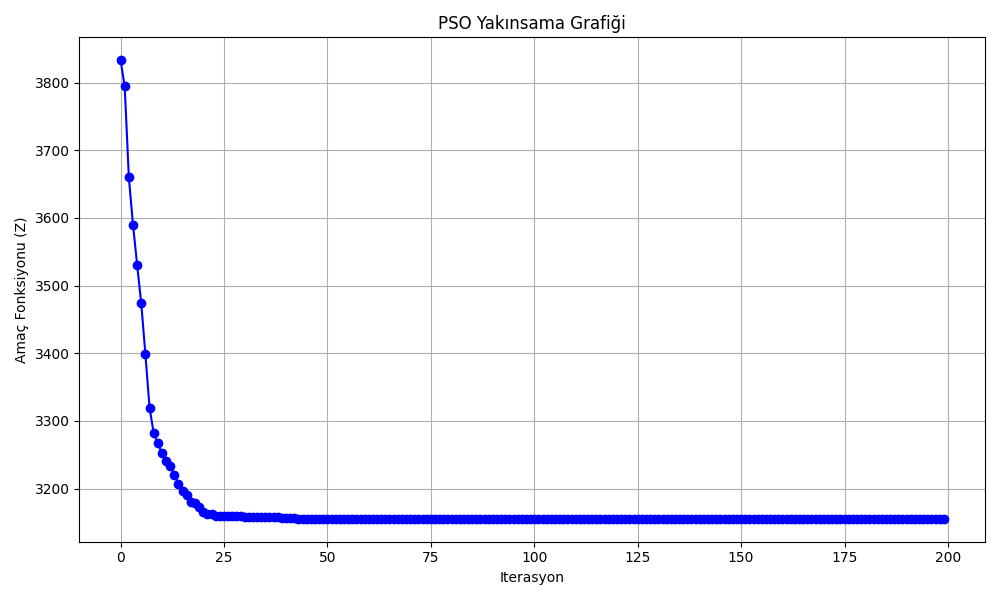
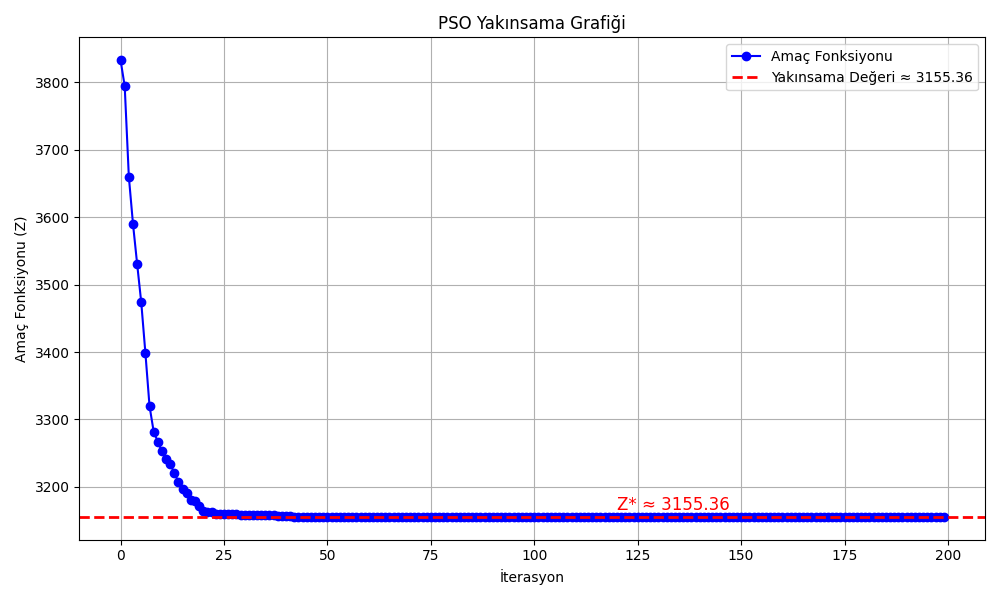
pso

diff --git a/deneme_pso.py b/deneme_pso.py
@@ -1,12 +1,13 @@
 import pandas as pd
 import numpy as np
 import matplotlib.pyplot as plt
+import os
 
-# Parametreler
+# ======================= PARAMETRELER ======================= #
 W1 = 0.5
 W2 = 0.5
-TOTAL_LIMIT = 3_000_000
-PER_TOWN_LIMIT = 1_000_000
+TOTAL_LIMIT = 3_000_000       # Toplam yeni yeşil alan sınırı (m²)
+PER_TOWN_LIMIT = 1_000_000    # İlçe başı maksimum yeni yeşil alan (m²)
 
 NUM_PARTICLES = 100
 MAX_ITER = 200
@@ -17,19 +18,20 @@ SEED = 42
 
 np.random.seed(SEED)
 
-### Yardımcı Fonksiyon ###
+# ======================= YARDIMCI FONKSİYONLAR ======================= #
 def repair_vector(x, bounds):
+    """Sınır dışına çıkan veya toplam limiti aşan çözüm vektörünü onarır."""
     x = np.clip(x, [b[0] for b in bounds], [b[1] for b in bounds])
     total = np.sum(x)
     if total > TOTAL_LIMIT:
-        x *= TOTAL_LIMIT / total
+        x *= TOTAL_LIMIT / total  # Orantılı olarak küçült
     return x
 
-### Objective Function ###
 def objective(x, S, P, GA):
+    """Amaç fonksiyonu: daha düşük değer daha iyidir."""
     return np.sum((S * P) / (GA + x + 1))
 
-### PSO Sınıfı ###
+# ======================= PSO SINIFI ======================= #
 class Particle:
     def __init__(self, dim, bounds):
         self.x = np.array([np.random.uniform(lb, ub) for lb, ub in bounds])
@@ -49,9 +51,13 @@ def run_pso(bounds, S, P, GA):
     for k in range(MAX_ITER):
         for p in swarm:
             y = objective(p.x, S, P, GA)
+
+            # Kişisel en iyi güncelle
             if y < p.y_best:
                 p.y_best = y
                 p.x_best = p.x.copy()
+
+            # Küresel en iyi güncelle
             if y < g_best_y:
                 g_best_y = y
                 g_best_x = p.x.copy()
@@ -68,22 +74,54 @@ def run_pso(bounds, S, P, GA):
 
     return g_best_x, g_best_y, history
 
-### Ana Fonksiyon ###
+# ======================= ANA FONKSİYON ======================= #
+
+def plot_convergence(history):
+    plt.figure(figsize=(10, 6))
+    plt.plot(history, marker='o', color='blue', label='Amaç Fonksiyonu')
+
+    # Yakınsanan en iyi değer
+    final_value = history[-1]
+    plt.axhline(y=final_value, color='red', linestyle='--', linewidth=2,
+                label=f"Yakınsama Değeri ≈ {final_value:.2f}")
+
+    # Etiket metni
+    plt.text(len(history) * 0.6, final_value + 10,
+             f"Z* ≈ {final_value:.2f}", color='red', fontsize=12)
+
+    plt.title("PSO Yakınsama Grafiği")
+    plt.xlabel("İterasyon")
+    plt.ylabel("Amaç Fonksiyonu (Z)")
+    plt.grid(True)
+    plt.legend()
+    plt.tight_layout()
+    plt.savefig("pso_yakinssama_grafigi.png")
+    print("📊 Yakınsama grafiği 'pso_yakinssama_grafigi.png' olarak kaydedildi.")
+
 def main():
-    df = pd.read_csv("result/birlesik_ilce_verisi.csv")
+    data_path = "result/birlesik_ilce_verisi.csv"
+    if not os.path.exists(data_path):
+        raise FileNotFoundError(f"❌ Dosya bulunamadı: {data_path}")
+
+    df = pd.read_csv(data_path)
+
+    # Girdi verileri ve Si hesaplama
     df["Ti"] = df["Minibus_Durak_Sayisi"] + df["Taksi_Durak_Sayisi"] + 2 * df["Rayli_Istasyon_Sayisi"]
     df["Si"] = W1 * df["Ortalama_AQI"] + W2 * df["Ti"]
 
-    GA = df["alan_metrekare"].values
-    P = df["Nufus"].values
-    S = df["Si"].values
+    GA = df["alan_metrekare"].values.astype(float)
+    P = df["Nufus"].values.astype(float)
+    S = df["Si"].values.astype(float)
 
+    # Sınırlar
     lower_bounds = np.zeros(len(GA))
     upper_bounds = np.minimum(GA / 2, PER_TOWN_LIMIT)
     bounds = list(zip(lower_bounds, upper_bounds))
 
+    # PSO çalıştır
     best_sol, best_score, history = run_pso(bounds, S, P, GA)
 
+    # Sonuçları dataframe'e ekle
     df["PSO_Yeni_Yesil_Alan"] = best_sol
     df["PSO_Toplam_Yesil_Alan"] = df["alan_metrekare"] + best_sol
 
@@ -91,19 +129,13 @@ def main():
     print(f"📏 Toplam yeni yapılan yeşil alan (PSO): {np.sum(best_sol):,.2f} m²")
     print(df[["ILCE", "PSO_Yeni_Yesil_Alan", "PSO_Toplam_Yesil_Alan"]])
 
-    df.to_csv("optimum_yesil_alan_sonuclari_pso.csv", index=False)
-    print("📁 Sonuçlar 'optimum_yesil_alan_sonuclari_pso.csv' dosyasına kaydedildi.")
+    # CSV'ye kaydet
+    output_path = "optimum_yesil_alan_sonuclari_pso.csv"
+    df.to_csv(output_path, index=False)
+    print(f"📁 Sonuçlar '{output_path}' dosyasına kaydedildi.")
 
-    plt.figure(figsize=(10, 6))
-    plt.plot(history, marker='o', color='blue')
-    plt.title("PSO Yakınsama Grafiği")
-    plt.xlabel("Iterasyon")
-    plt.ylabel("Amaç Fonksiyonu (Z)")
-    plt.grid(True)
-    plt.tight_layout()
-    plt.savefig("pso_yakinssama_grafigi.png")
-    # plt.show()
-    print("📊 Yakınsama grafiği 'pso_yakinssama_grafigi.png' olarak kaydedildi.")
+    # Yakınsama grafiğini çiz
+    plot_convergence(history)
 
 if __name__ == "__main__":
     main()
